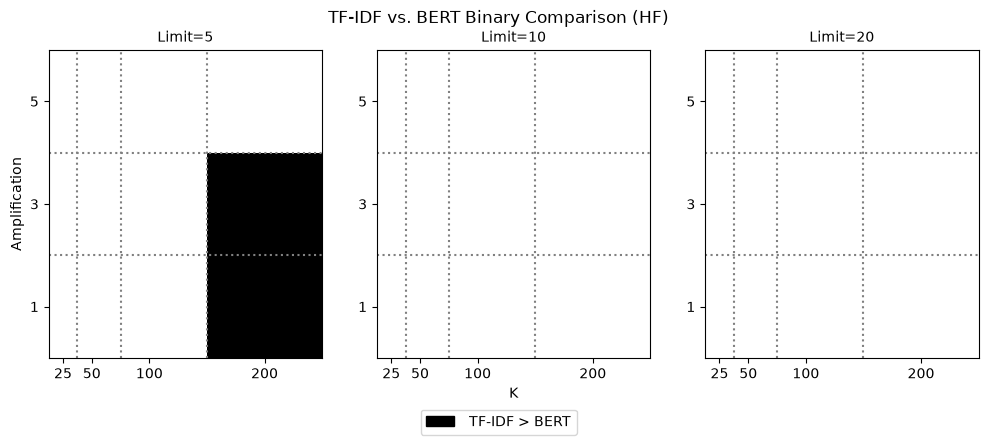
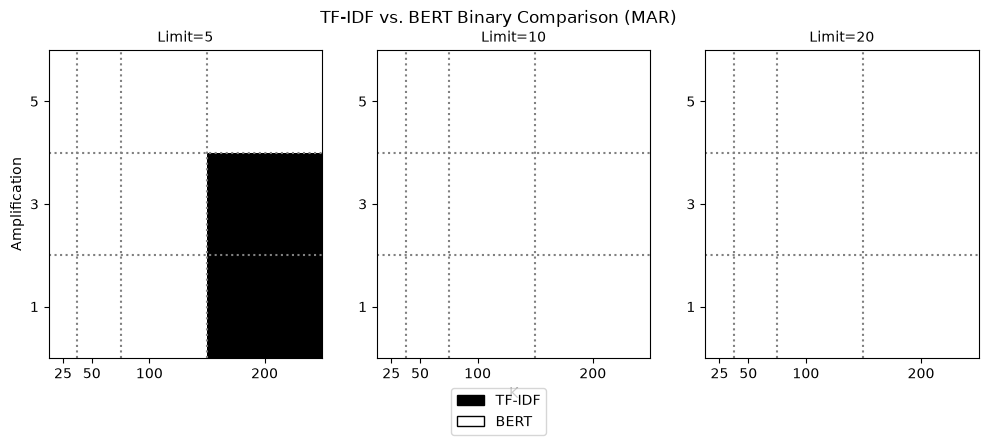
Cleaned up the h2h visualizations

Changed region(s): [[0.4251, 0.8764, 0.5769, 0.964], [0.334, 0.0, 0.6984, 0.0584]]

diff --git a/tests/util/visualize.py b/tests/util/visualize.py
@@ -157,11 +157,13 @@ def plot_tfidf_versus_bert_hf(result_tfidf, result_bert, metric):
 
         axis.pcolormesh(X, Y, Z, vmin=0, vmax=1, cmap="gray")
 
-    patches = [Patch(color="black", label=" TF-IDF > BERT")]
+    patches = [Patch(color="black", label="TF-IDF"), Patch(facecolor="white", label="BERT", edgecolor="black")]
 
     figure.legend(handles=patches, loc="lower center", bbox_to_anchor=(0.5, -0.1))
 
-    figure.suptitle("TF-IDF vs. BERT Binary Comparison (HF)")
+    metric_label = "HF" if metric == "hierarchical" else "MAR"
+
+    figure.suptitle(f"TF-IDF vs. BERT Binary Comparison ({metric_label})")
 
     return figure
 
